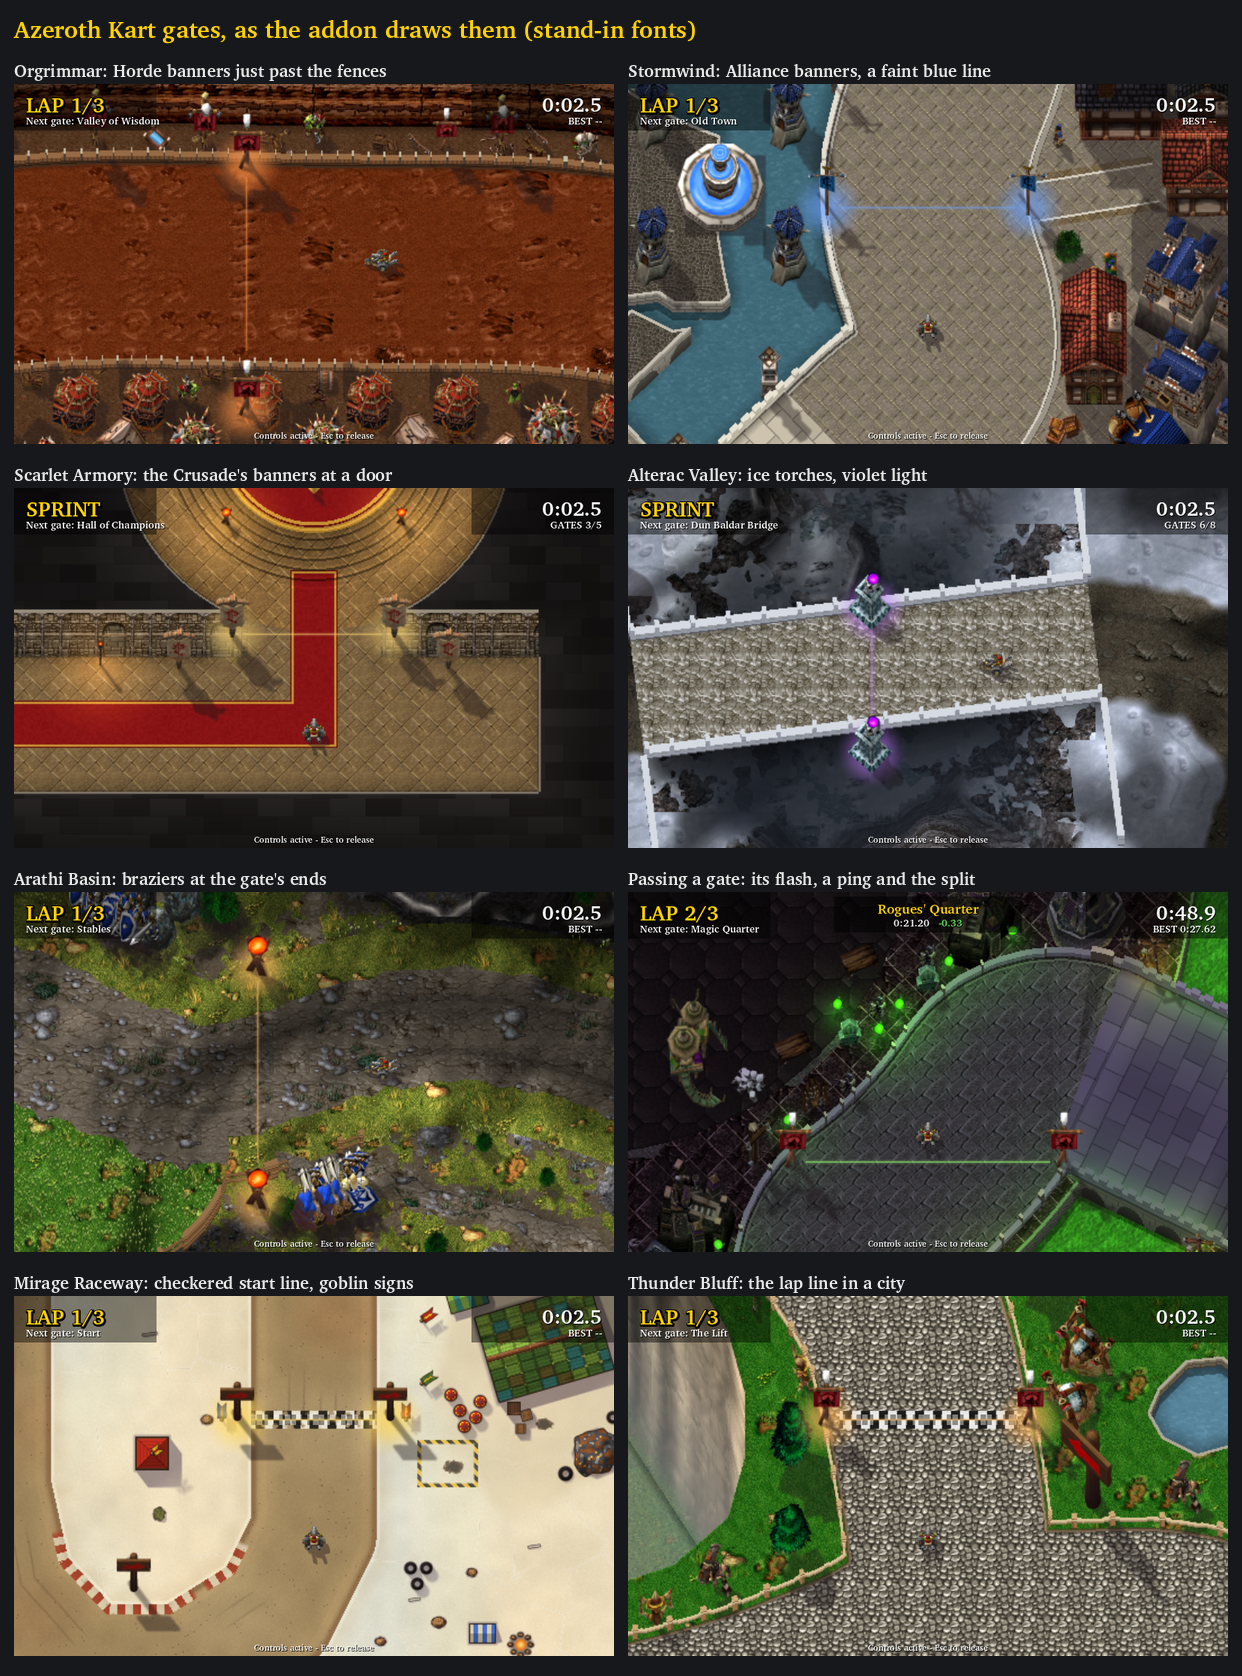
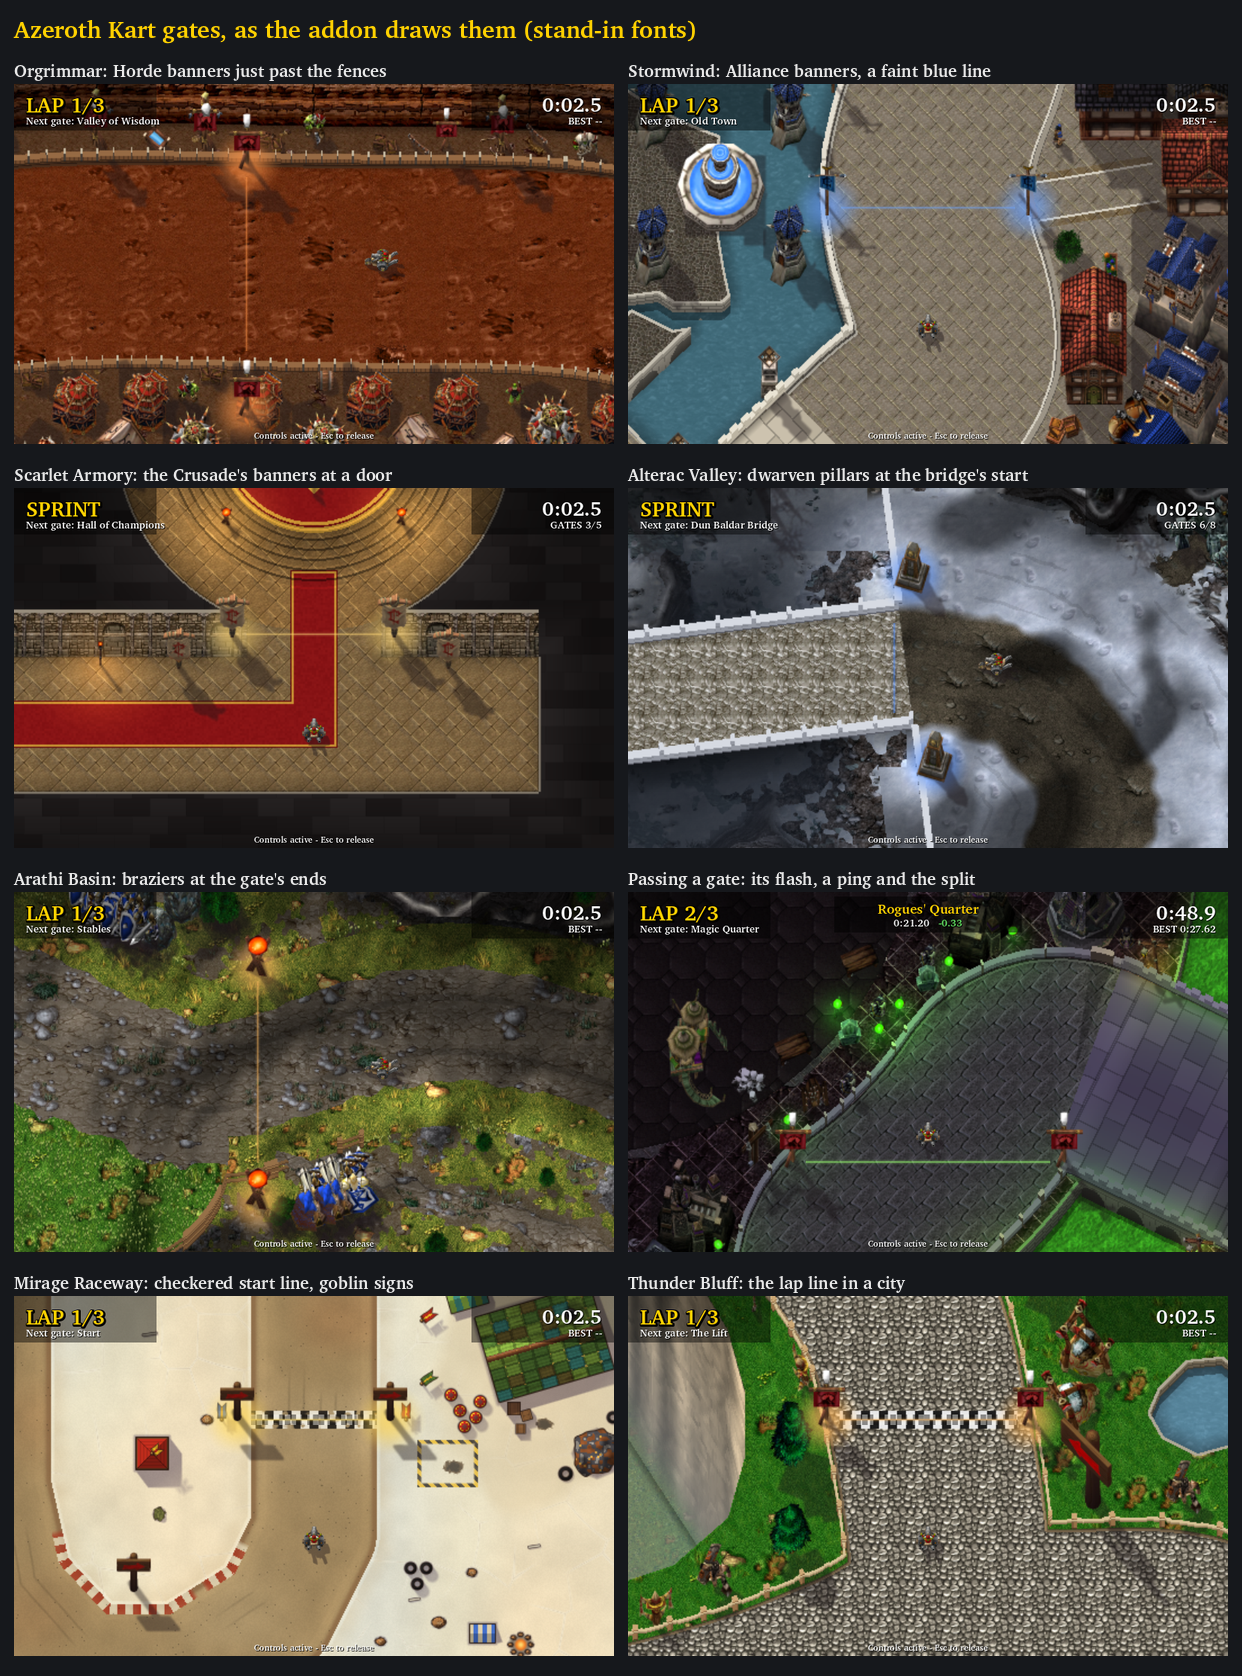
docs: Alterac's gates: dwarven pillars, the bridge's gate at its start
The gates' sheet (the owner's ask, the dwarven kit, `stands`, the
rebuild command), its picture's Alterac panel, the kit's provenance, the
contract (stands; Alterac version 2 for Codex), the test plan and the
Alterac sheet's version 2 note.

Claude-Session: https://claude.ai/code/session_01HqjE6kQMBEZCvc46ioimvY

Changed region(s): [[0.4895, 0.2792, 1.0, 0.5274]]

diff --git a/docs/art/ui/gates.md b/docs/art/ui/gates.md
@@ -6,7 +6,10 @@ Offline checks below; in WoW Forever **NOT RUN** ([client check](#client-check-n
 The owner asked for gates "more immersive than the current.. lines". Of the mockups he liked the
 direction and asked: **"make the banners, posts etc just a bit more outside the track, just pence
 fence, and make the lines more subtle, dont want players to think they need to avoid them heh"**, read
-as: posts just past the fence.
+as: posts just past the fence. Shown Alterac Valley's bridge gate, he asked: **"put this gate at the start
+of the bridge so that the pillars have something to stand on (in the snow), and make the pillar dwarven
+and the line blue"**: that gate moved to the bridge's mouth (Alterac's version 2, [its sheet](../tracks/alterac-valley.md)),
+and all Alterac's gates have dwarven posts and a blue light.
 
 ![The gates as the addon draws them](gates.png)
 
@@ -28,11 +31,15 @@ picture, not a screenshot.
   | `scarlet` | the Scarlet Crusade's standing banners | the four Scarlet sprints | holy gold |
   | `goblin` | the goblin racing arrow post | Mirage Raceway | gold |
   | `brazier` | a Lordaeron brazier | Warsong Gulch, Arathi Basin | fire |
-  | `frost` | an Icecrown ice torch | Alterac Valley | violet (a pale light vanishes on snow) |
+  | `dwarven` | a carved stone obelisk banded in bronze (Reforged's Northrend obelisk), for Dun Baldar's dwarves | Alterac Valley | a deep blue (a pale one vanishes on snow) |
 
   A post stands 12 units past its end of the gate, past the wall that end meets. The camera leans
   heights north, so a post on a gate's south side would lean back over the road: there it moves out by
-  its height's lean as well, and its top too stays past the fence. Posts are pictures, not solids.
+  its height's lean as well, and its top too stays past the fence. Where that would stand a post on a
+  building or over a drop, the course's style names its ground instead (`stands`): on Alterac Valley,
+  Icewing Bunker's west post beside the bunker, Dun Baldar's south post beside its watchtower, and the
+  bridge gate's two on the snow either side of the bridge's mouth. Posts are pictures, not solids (the
+  bridge's two stand on open snow, where a kart running wide could pass through them).
   On the battlegrounds a gate runs from cliff to cliff across open ground, so its posts stand at the
   cliffs, often off screen while you drive the road; the line carries the gate there.
 - **The next gate's posts stand in pools of its light.**
@@ -44,7 +51,8 @@ picture, not a screenshot.
   interface source). A lap's last gate shows the lap's time; the race's finish leaves it to the results.
 
 Every gate of every course (75) was looked at in the preview with its kart just short of it: posts
-past the fences, over canal walls, at the lava's rim, in doorways and on Dun Baldar's bridge parapets.
+past the fences, over canal walls, at the lava's rim and in doorways; Alterac's eight again, both ends
+of each, after the dwarven posts and the bridge's move.
 
 ## How it is drawn
 
@@ -53,8 +61,9 @@ past the fences, over canal walls, at the lava's rim, in doorways and on Dun Bal
   a shadow to the south-east, one texel a world unit) so it stands in the picture like its scenery; a
   soft glow; the soft line and the checks, horizontal and vertical. `Presentation.GATE_KIT` names each
   post's rectangle, foot and height; `--check` compares it and the picture's bytes.
-- **Presentation (pure):** `GATE_KIT`, `GATE_STYLES` (each course's post and light), `GATE_POST_OUTSET`
-  and `GATE_LEAN`, `gatePosts` (the two ground points), `atlasCrop`, `postCrop` and `finishCrop` (screen
+- **Presentation (pure):** `GATE_KIT`, `GATE_STYLES` (each course's post and light, and any `stands`),
+  `GATE_POST_OUTSET` and `GATE_LEAN`, `gatePosts(gate, post, style)` (the two ground points), `atlasCrop`,
+  `postCrop` and `finishCrop` (screen
   rectangles and texture crops, cut at the canvas' edges), `GATE_LINE`, `GATE_FLASH` and
   `gateLineAlpha` (the line's opacity by state).
 - **UI (visual):** `drawTrack` creates the band, two pools and sixteen posts with the window;
@@ -73,7 +82,7 @@ Nothing changes where a gate is, what counts as passing it, the race, physics, s
 From the owner's Warcraft III: Reforged install (read only), into an empty folder `WC3`:
 
 ```
-python scripts/wc3casc.py "INSTALL" models '^war3\.w3mod:(doodads/lordaeronsummer/props/(bannerhuman/bannerhuman0|bannerorc/bannerorc0|brazier/brazier)|doodads/icecrown/props/icetorch/icetorch|_de\.w3mod:doodads/(cityscape/props/scarletcrusadestandingbanners/scarletcrusadestandingbanners0|lordaeronsummer/props/goblinracingarrowpost/goblinracingarrowpost0))\.mdx$' WC3
+python scripts/wc3casc.py "INSTALL" models '^war3\.w3mod:(doodads/lordaeronsummer/props/(bannerhuman/bannerhuman0|bannerorc/bannerorc0|brazier/brazier)|_de\.w3mod:doodads/(cityscape/props/scarletcrusadestandingbanners/scarletcrusadestandingbanners0|lordaeronsummer/props/goblinracingarrowpost/goblinracingarrowpost0|northrend/props/northrendobilisk/northrendobilisk))\.mdx$' WC3
 python scripts/build_gate_kit.py --wc3 WC3 --check
 ```
 

diff --git a/docs/API_CONTRACTS.md b/docs/API_CONTRACTS.md
@@ -1040,11 +1040,12 @@ On `claude/arathi-v2` (base Codex's `codex/arathi-integration` `1fbea6b`, instal
 
 The owner asked for gates more immersive than lines, with posts "just a bit more outside the track" and lines "more subtle, dont want players to think they need to avoid them". Presentation only; details in [the gates' sheet](art/ui/gates.md). Client behaviour is **NOT RUN**. Based on `claude/menu-launch`.
 
-- **Unchanged:** `Track.gates`, checkpoint and lap rules, the race, physics, sessions, scores, saved data. Gate strips keep their rectangles (five units thick, Warsong's guided next gate ten); `test_ui`'s geometry assertions stand.
-- **Presentation (Claude, pure):** `GATE_KIT` (GateKit.tga's cells, posts' feet and heights), `GATE_STYLES` (each course's post and light), `GATE_POST_OUTSET`, `GATE_LEAN`, `gatePosts(gate, post)`, `atlasCrop(view, x, y, w, h, cx, cy, cw, ch, size)`, `postCrop(view, x, y, post)`, `finishCrop(view, gate, thickness)`, `GATE_LINE`, `GATE_FLASH`, `gateLineAlpha(state, seconds)`.
+- **Unchanged:** checkpoint and lap rules, the race, physics, sessions, saved data; `Track.gates` on every course but Alterac Valley's bridge gate (below). Gate strips keep their rectangles (five units thick, Warsong's guided next gate ten); `test_ui`'s geometry assertions stand.
+- **Presentation (Claude, pure):** `GATE_KIT` (GateKit.tga's cells, posts' feet and heights), `GATE_STYLES` (each course's post and light; `stands` names the ground of a post the rule would put on a building or over a drop, by gate name), `GATE_POST_OUTSET`, `GATE_LEAN`, `gatePosts(gate, post, style)`, `atlasCrop(view, x, y, w, h, cx, cy, cw, ch, size)`, `postCrop(view, x, y, post)`, `finishCrop(view, gate, thickness)`, `GATE_LINE`, `GATE_FLASH`, `gateLineAlpha(state, seconds)`.
 - **UI.lua (Claude's visual functions; reserved on this branch):** `drawTrack` creates `UI.gateBand`, `UI.gatePools` (two, additive blend when the client offers it) and `UI.gatePosts` (sixteen); new local `layoutGates`, `loadGateKit`, `placeGatePieces`, `placeCrop`, `refreshGateLooks`, `animateGates`, `setGateLook`, `gateLook`; `placeTrackMarkers` places the pieces; `refreshCheckpoints` replaces its gate colours with the looks and records each pass's tick in `UI.gateFlashes` (a lap's end: its last gate); `render` calls `animateGates` after `placeGuide`. `UI.nextGate` is the pulsing next gate on unguided courses; `UI.glowGate` keeps its guided meaning (the Arathi test's "no gate glows" still holds for it).
 - **Menu (race overlay):** a toast on each gate passed (name, time into the lap at the crossing tick, difference from the last lap or a sprint's last finished run), `Menu.splitText`, `Menu.GATE_TOAST`, `Menu.sprintSplits`, and `Menu.SOUNDS.gate = "MAP_PING"`. Splits read the copied `UI.checkpoints.lastTick` and `UI.laps`; nothing is saved or sent.
 - **Counts:** 121/213/230 on `claude/menu-launch` → **121 frames, 233 textures, 232 font strings**; `test_ui`'s `GATE_KIT_PIECES` and texture-load counts (the kit loads once onto every piece and strip: 27 calls) are updated with the lap fixture's colours.
+- **Alterac Valley version 2 (geometry, for Codex's review):** the owner asked for the bridge's gate "at the start of the bridge so that the pillars have something to stand on (in the snow)". `Battlegrounds.alterac_valley`: `version` 2; gate 7 *Dun Baldar Bridge* from x 800 (6552..6632) to x 988 (6576..6656), still the deck's whole width inside the approach's walls; `routeGates[7]` 243 → 238. Every other value (walls, narrows, both grids, the other gates, route, spawn, the pictures) is byte-identical. The generator's `sprint_gates` now cuts a gate where the course first crosses its line after the gate before (x 988 is also crossed near Iceblood Tower); the other seven gates come out unchanged. The way and the finish are the same, so version 1's times are comparable, but they are a separate board by the existing context rule (your call whether to carry them over). Pins updated for review: `test_peer_session` (version 2; version 1 incompatible), `test_multiplayer_integration` (the offer's version 2), `services/leaderboard/catalog.json` (`export_score_catalog.py`); `test_race_protocol`'s wire example keeps its version 1 (a codec example, not the catalogue). Claude's `test_alterac` checks the gate in the bridge's mouth and the moved posts on open snow.
 
 ### Proposed: menus for launch (Claude, `claude/menu-launch`, 2026-10-29, for Codex)
 

diff --git a/docs/art/ASSET_SOURCES.md b/docs/art/ASSET_SOURCES.md
@@ -90,7 +90,7 @@ The results' celebration atlas, `addon/AzerothKart/Assets/UI/Celebration.tga` (2
 
 The kart screen's portrait atlas, `addon/AzerothKart/Assets/UI/KartIcons.tga` (2026-10-29, `claude/menu-launch`, proposed), adds no new art: `scripts/build_kart_icons.py` copies each runtime kart sheet's frame for a heading of 315° (the turntable's starting pose) into a 128-texel cell, centred and, when far from 104 texels across, scaled by a bilinear average. Each cell therefore keeps its sheet's source, author, terms and credit as recorded above and in [the roster](karts/roster.md); redistribution stays **unresolved** wherever it is for the sheet. The track lists' thumbnail atlas, `addon/AzerothKart/Assets/UI/TrackThumbs.tga` (same date and branch), likewise adds none: `scripts/build_track_thumbs.py` averages the middle square of each track's own menu preview down to 64 texels, so each cell keeps its preview's source and terms (original for Mirage Raceway; Blizzard Entertainment's Warcraft III art under [ADR 0009](../adr/0009-warcraft-iii-asset-reuse.md) for the rest, redistribution **unresolved**). Both scripts verify their exact bytes with `--check`; [the launch refresh](ui/menu-launch.md) records their layout and memory.
 
-The gates' kit, `addon/AzerothKart/Assets/UI/GateKit.tga` (2026-10-29, `claude/immersive-gates`, proposed), holds six posts rendered by `scripts/build_gate_kit.py` with the scenery's own renderer from Blizzard Entertainment's Warcraft III: Reforged models in the owner's install, extracted by `scripts/wc3casc.py` without modifying it: `doodads/lordaeronsummer/props/bannerhuman/bannerhuman0.mdx` (blue team colour), `doodads/lordaeronsummer/props/bannerorc/bannerorc0.mdx` (red), `_de.w3mod:doodads/cityscape/props/scarletcrusadestandingbanners/scarletcrusadestandingbanners0.mdx`, `_de.w3mod:doodads/lordaeronsummer/props/goblinracingarrowpost/goblinracingarrowpost0.mdx`, `doodads/lordaeronsummer/props/brazier/brazier.mdx` and `doodads/icecrown/props/icetorch/icetorch.mdx`, with the textures their drawn layers read. Modifications: posed at their Stand pose, scaled (0.32 to 0.55 world units per model unit), drawn with the scenery's camera, light and shadow; particle layers not drawn. Author: Blizzard Entertainment; terms: [ADR 0009](../adr/0009-warcraft-iii-asset-reuse.md); redistribution **unresolved** for release review. Its glow, soft lines and checks are original, drawn from polynomials by the same script. [The gates' sheet](ui/gates.md) records the layout and its use.
+The gates' kit, `addon/AzerothKart/Assets/UI/GateKit.tga` (2026-10-29, `claude/immersive-gates`, proposed), holds six posts rendered by `scripts/build_gate_kit.py` with the scenery's own renderer from Blizzard Entertainment's Warcraft III: Reforged models in the owner's install, extracted by `scripts/wc3casc.py` without modifying it: `doodads/lordaeronsummer/props/bannerhuman/bannerhuman0.mdx` (blue team colour), `doodads/lordaeronsummer/props/bannerorc/bannerorc0.mdx` (red), `_de.w3mod:doodads/cityscape/props/scarletcrusadestandingbanners/scarletcrusadestandingbanners0.mdx`, `_de.w3mod:doodads/lordaeronsummer/props/goblinracingarrowpost/goblinracingarrowpost0.mdx`, `doodads/lordaeronsummer/props/brazier/brazier.mdx` and `_de.w3mod:doodads/northrend/props/northrendobilisk/northrendobilisk.mdx` (the dwarven post, in place of an Icecrown ice torch since the owner's ask of the same day), with the textures their drawn layers read. Modifications: posed at their Stand pose, scaled (0.24 to 0.5 world units per model unit), drawn with the scenery's camera, light and shadow; particle layers not drawn. Author: Blizzard Entertainment; terms: [ADR 0009](../adr/0009-warcraft-iii-asset-reuse.md); redistribution **unresolved** for release review. Its glow, soft lines and checks are original, drawn from polynomials by the same script. [The gates' sheet](ui/gates.md) records the layout and its use.
 
 The default runtime kart since 2026-10-20, `addon/AzerothKart/Assets/Karts/GoblinMortarTrike.tga`, is rendered from the Warcraft III **Goblin Mortar Trike** model and texture by erwtenpeller and Chriz (Vast Graphics). It was fetched from the WC3Vault listing above on the owner's request.
 

diff --git a/docs/art/tracks/alterac-valley.md b/docs/art/tracks/alterac-valley.md
@@ -4,6 +4,8 @@ The Battlegrounds Cup's third course, by Claude (rendering/UI owner): a **sprint
 
 ![Alterac Valley overview, 8x reduced: south (Frostwolf) at the bottom right, north (Dun Baldar) at the top left](alterac_valley-review.png)
 
+**Version 2 (proposed 2026-10-29 by Claude on `claude/immersive-gates`, for Codex):** with the gates' posts in view, the owner asked: **"put this gate at the start of the bridge so that the pillars have something to stand on (in the snow), and make the pillar dwarven and the line blue"**. *Dun Baldar Bridge*'s gate is now across the deck where the karts come onto the bridge (x 988: past the bank at 975, inside the approach's walls to 999; 80 units across), not halfway over the gorge (x 800). The way, the walls and the finish are unchanged; only that gate's line and the version change (so a version 1 peer cannot race it, and its scores are a new board). Its posts stand on the snow either side of the bridge's mouth; the gates' look is [the gates' sheet](../ui/gates.md). NOT RUN in the client.
+
 **Status:** version1, reviewed and integrated by Codex with flat Physics15 ice traction and one-run solo/two-player registration. The earlier proposal notes below describe Claude’s handoff before that integration. **NOT RUN in the client:** scenery seams, memory/frame cost, handling and multiplayer delivery. See [current contract](../../API_CONTRACTS.md).
 
 ## What the owner asked
@@ -34,7 +36,7 @@ The route follows the client's road (its trampled-dirt texture) from the owner's
 4. **Across the Field of Strife,** frozen over: gate *Field of Strife* in its middle, on the ice.
 5. **Up past Stonehearth Outpost** and its bunker: gate *Stonehearth Outpost*.
 6. **North along the icy basin's eastern road** by Icewing Bunker: gate *Icewing Bunker*, the road's lowest ground just beyond.
-7. **West over the gorge on Dun Baldar's bridge** (narrow: the karts' reach 42 over its deck and approaches): gate *Dun Baldar Bridge* on the deck.
+7. **West over the gorge on Dun Baldar's bridge** (narrow: the karts' reach 42 over its deck and approaches): gate *Dun Baldar Bridge* across the deck where it begins (version 2; version 1 had it halfway across).
 8. **Into Dun Baldar:** the finish, *Dun Baldar*, before the castle's gate.
 
 | Measure | Value |

diff --git a/docs/TEST_PLAN.md b/docs/TEST_PLAN.md
@@ -219,6 +219,7 @@ On `claude/immersive-gates` (gates in the world; focused: `python scripts/test_l
 - `tests/test_presentation.lua`: the kit's cells in the atlas, every production course styled; the posts 12 past each end, the south one by its lean too; the crops whole and cut; the checks' squares; the line's opacity by state.
 - `tests/test_ui.lua`: the kit loads once onto every piece; each line's cell and look by state; each post where its crop says; the pools at the next gate; the lap line's band; a pass flashes and is gone in half a second; no objects created switching courses; a refused kit gives plain lines and nothing else, never retried. The budget becomes 121/233/232.
 - `tests/test_menu.lua`: the toast's split text, its showing and going, the ping, a lap's time at its last gate, faster green and slower red.
+- Alterac's gates (the owner's second ask): `test_presentation` checks a style's `stands` (by gate name; false keeps the rule's) and Alterac's dwarven posts and deep blue; `test_ui` that its moved posts reach the pieces; `test_alterac` (version 2) the bridge's gate across its mouth and each moved post on open snow by its gate's end. Codex's pins for the version: `test_peer_session`, `test_multiplayer_integration`, `export_score_catalog.py --check`. Data: `python scripts/build_battlegrounds.py --wc3 WC3 --check --course alterac_valley` (the pictures byte-identical).
 
 The gates in the client are NOT RUN; see [the gates' client check](art/ui/gates.md#client-check-not-run).
 
